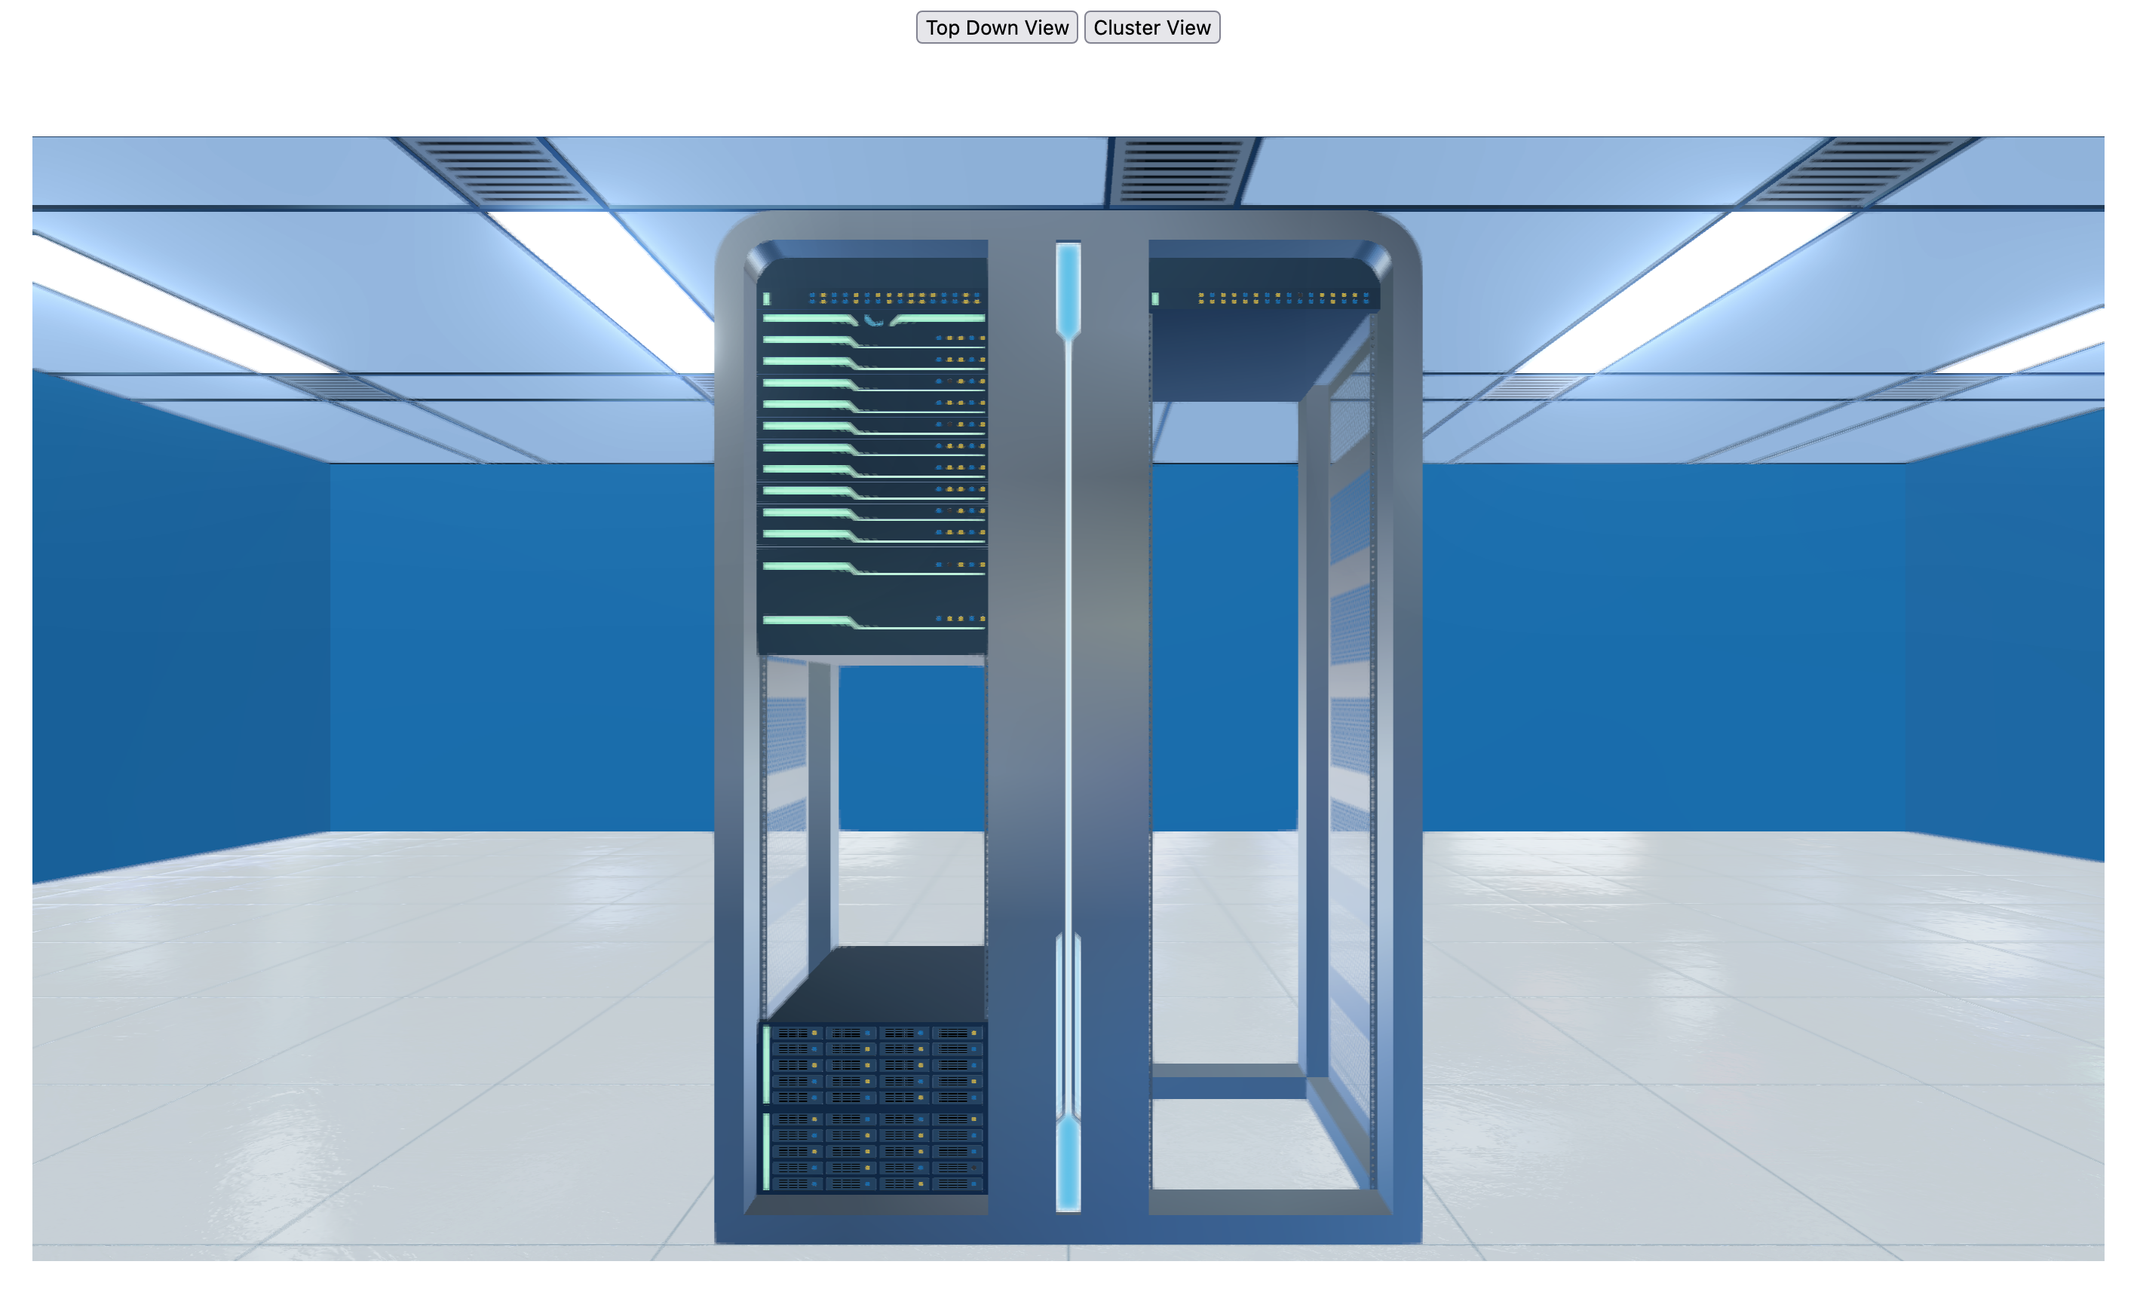
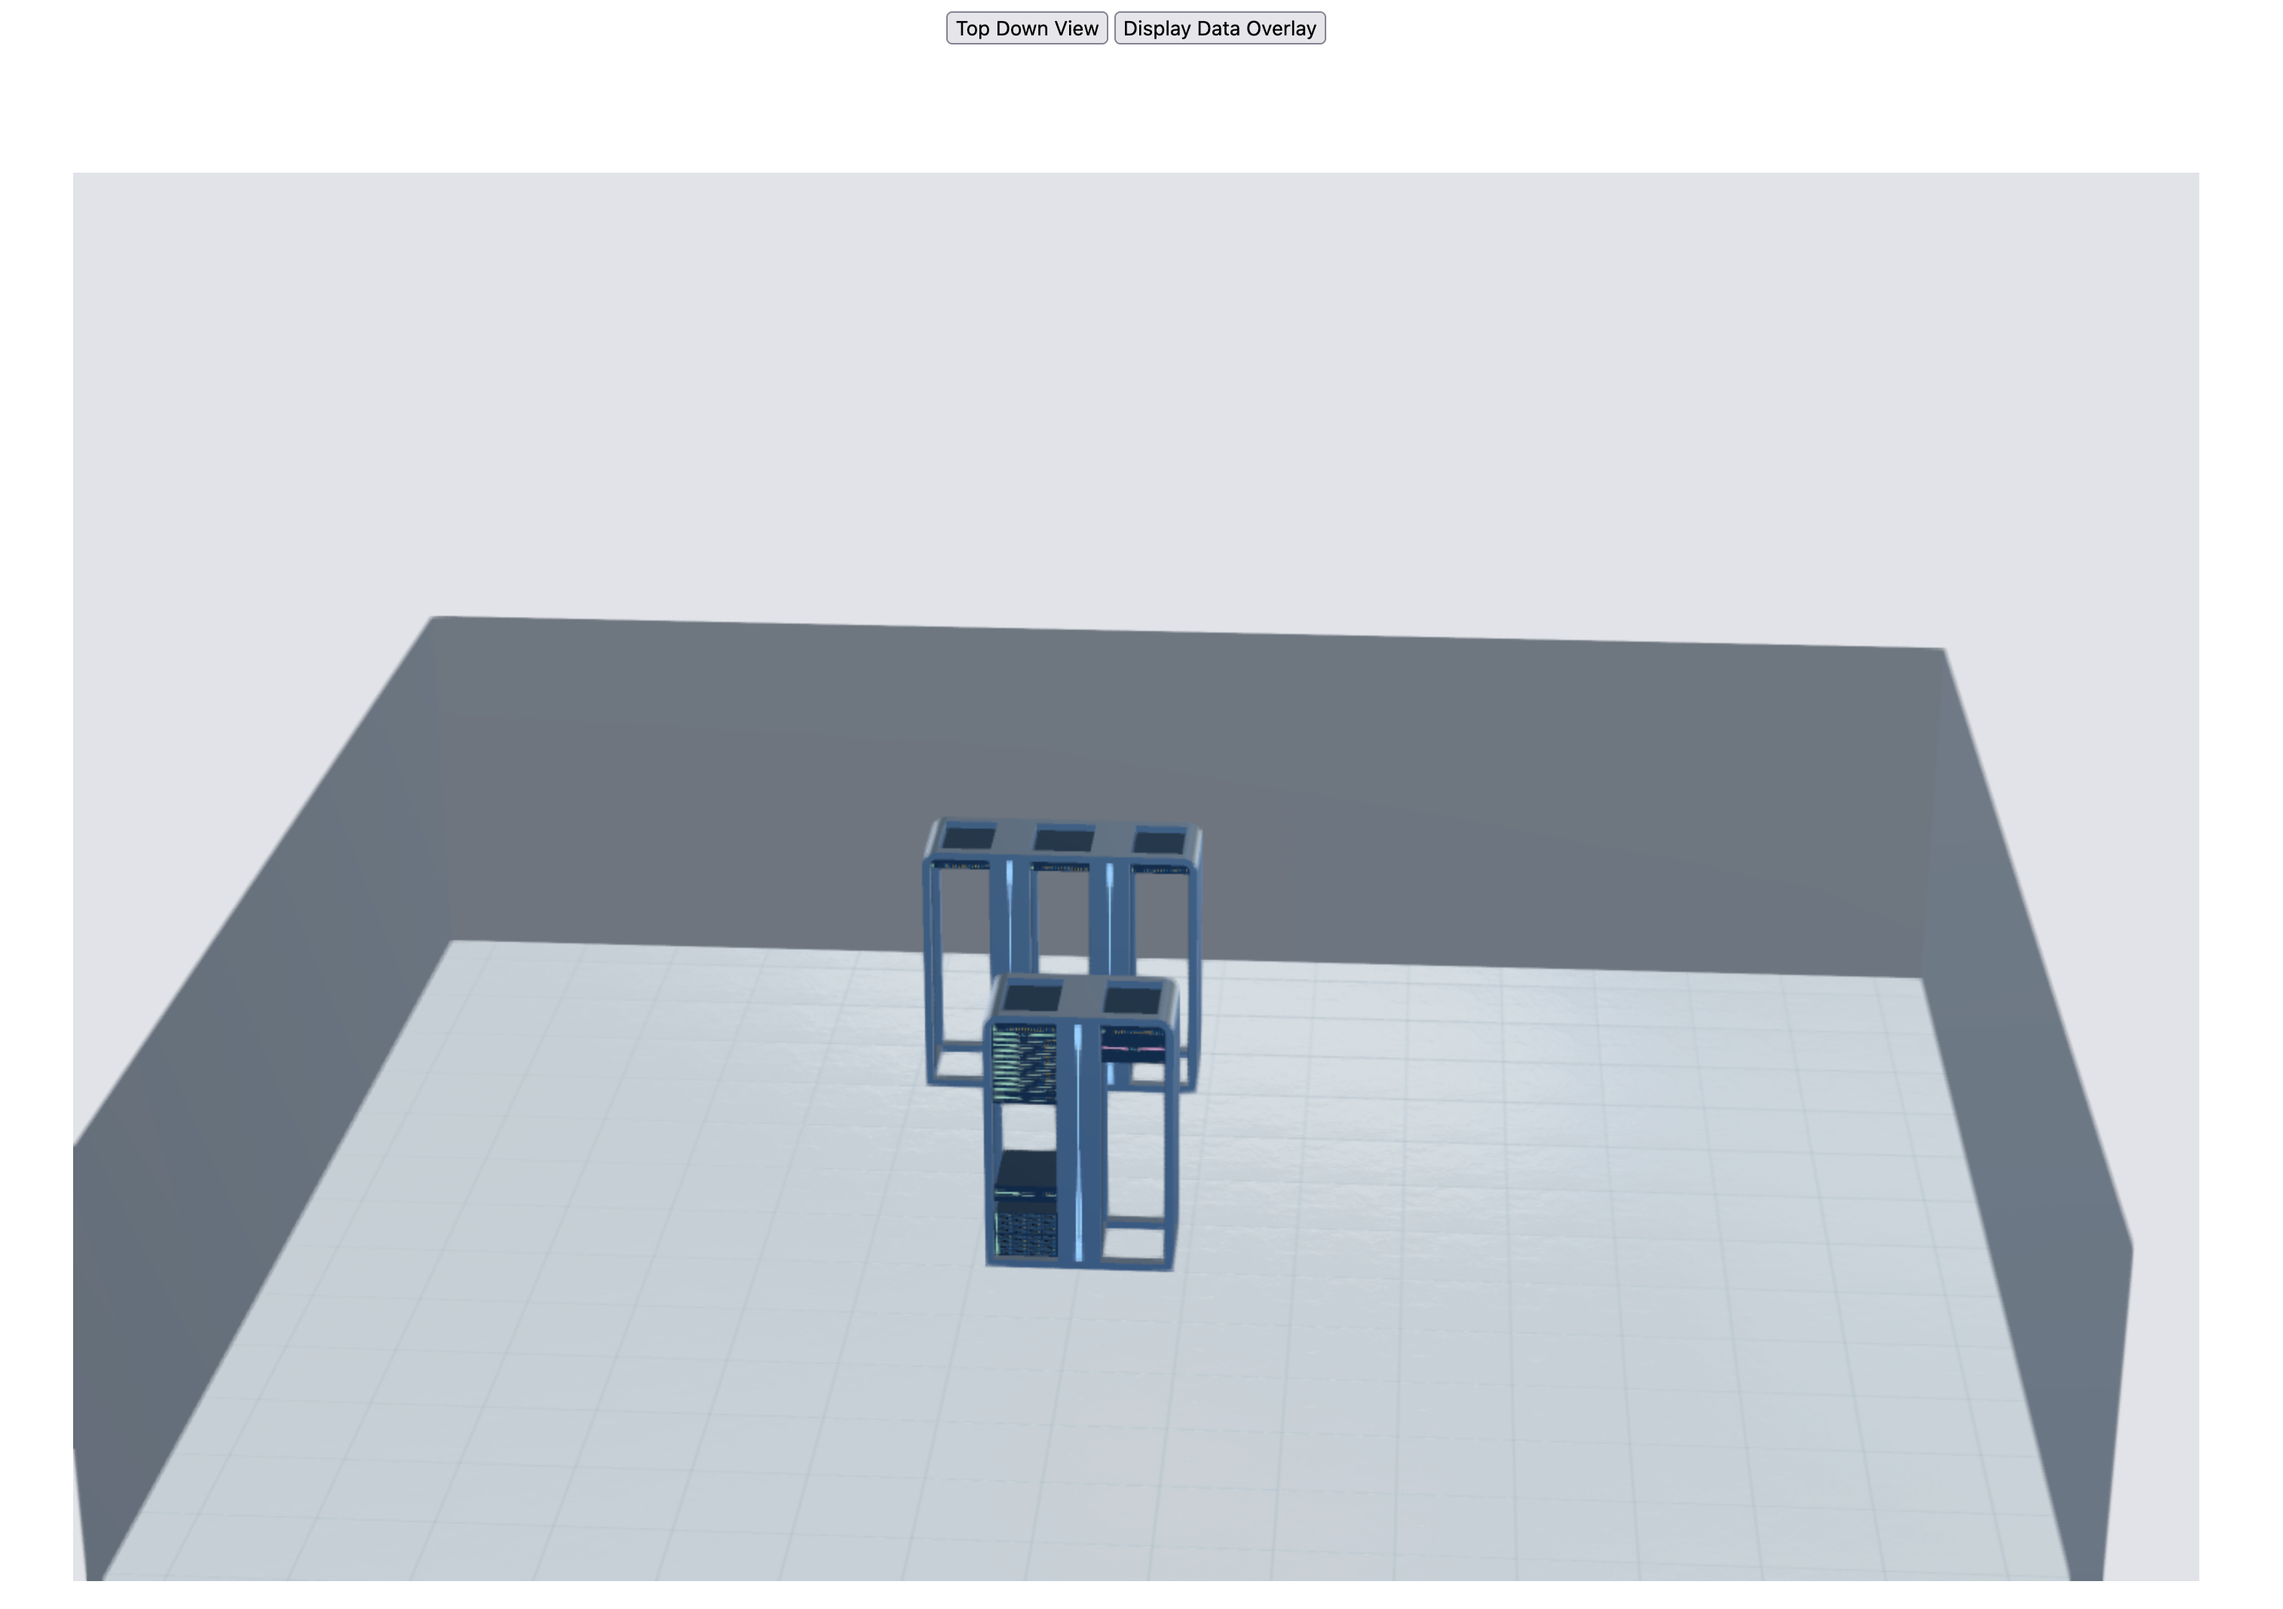
Update README

diff --git a/README.md b/README.md
@@ -18,10 +18,12 @@ Visit http://localhost:4567 and see the following:
 
 ## Features
 
-- Toggling between "Top Down" and "Cluster" views with the buttons at the top
+- Viewing clusters by clicking them (when label appears that confirms that a rack has been "hovered" and is therefore clickable)
+- Return to top down view with helper button
 - Turning nodes on and off (right-click on them and select start/stop depending on current status) 
 - Moving nodes to new slots in a rack (click on a node to unrack it, click in another slot to rerack it) 
 - Cluster name shown on rack hover (in top-down view)
 - Node name shown on node hover (in cluster view) 
-- Zoom in with mouse wheel
+- Zoom in with mouse wheel (quite dodgy, not recommended) 
 - Dynamically reloading node layout (any changes to `room.yml` are reflected in front-end session, checked every 10s) 
+- Display data overviews for currently selected cluster with button (does nothing in top-down view)
